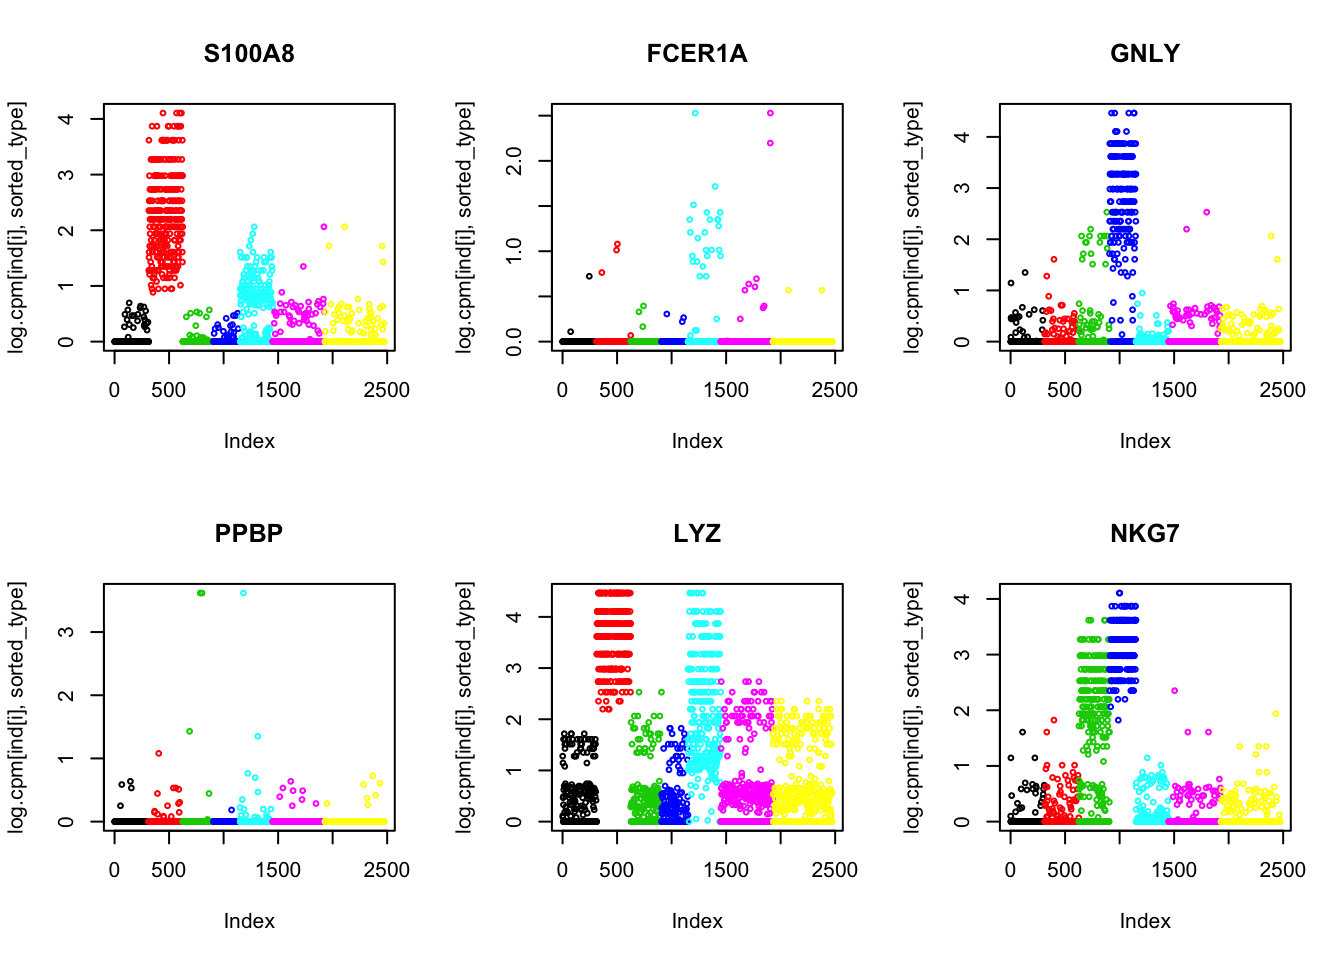
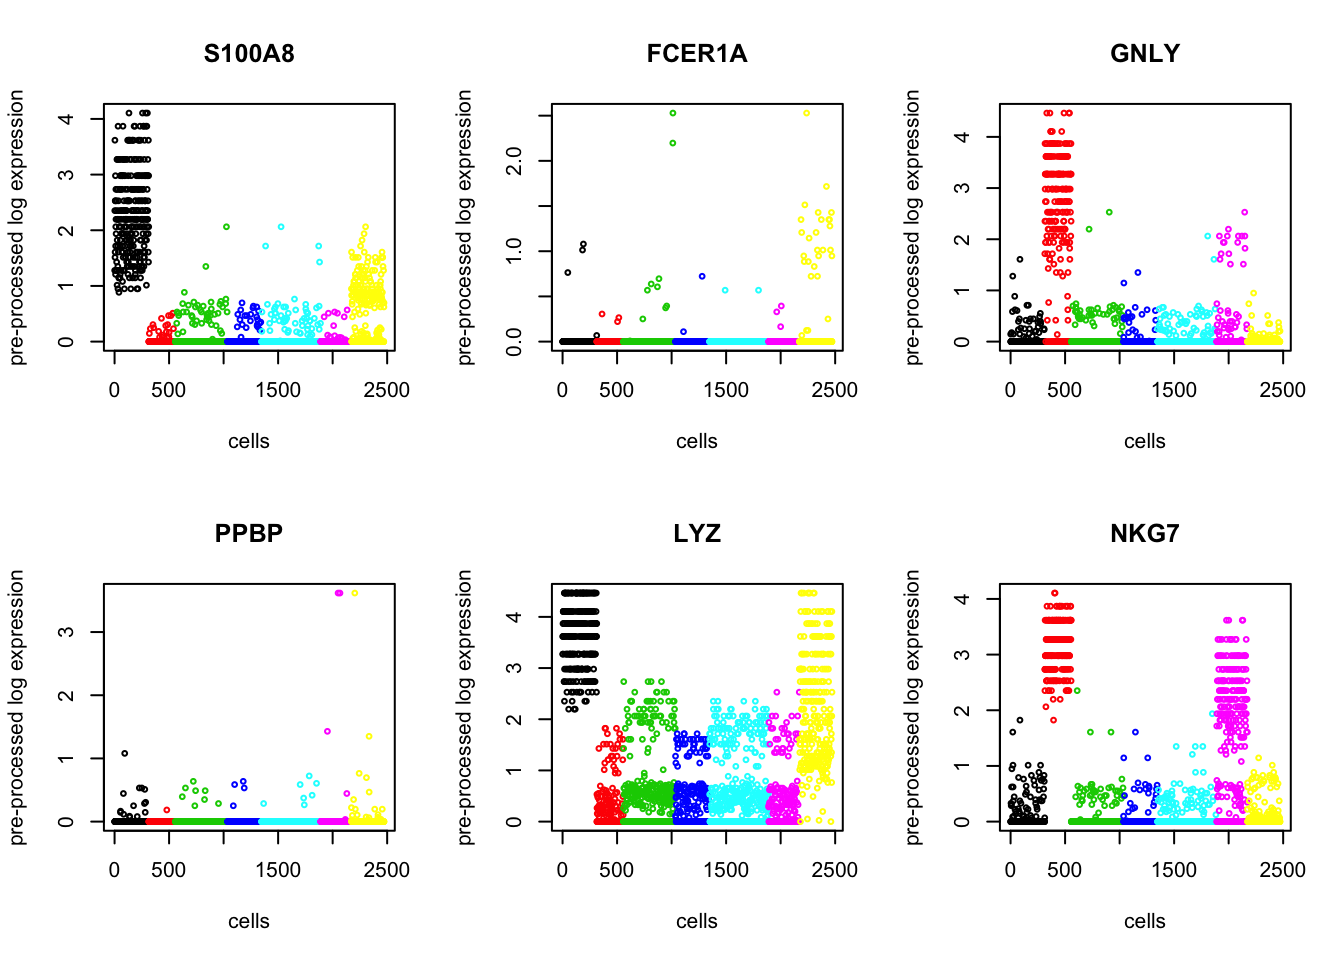
Build site.

diff --git a/docs/example_10x.html b/docs/example_10x.html
@@ -354,7 +354,7 @@ div.section {
 </div>
 
 
-<p><strong>Last updated:</strong> 2018-08-30</p>
+<p><strong>Last updated:</strong> 2018-08-31</p>
 <strong>workflowr checks:</strong> <small>(Click a bullet for more information)</small>
 <ul>
 <li>
@@ -378,7 +378,7 @@ div.section {
 </details>
 </li>
 <li>
-<p><details> <summary> <strong style="color:blue;">✔</strong> <strong>Repository version:</strong> <a href="https://github.com/tk382/SCNoisyClustering/tree/fc23dfa8829b925d8ce3bad7fa5fb58a54e39fb4" target="_blank">fc23dfa</a> </summary></p>
+<p><details> <summary> <strong style="color:blue;">✔</strong> <strong>Repository version:</strong> <a href="https://github.com/tk382/SCNoisyClustering/tree/732a07715be8d38ebd2dba8701b1f159ca8ff6ba" target="_blank">732a077</a> </summary></p>
 Great! You are using Git for version control. Tracking code development and connecting the code version to the results is critical for reproducibility. The version displayed above was the version of the Git repository at the time these results were generated. <br><br> Note that you need to be careful to ensure that all relevant files for the analysis have been committed to Git prior to generating the results (you can use <code>wflow_publish</code> or <code>wflow_git_commit</code>). workflowr only checks the R Markdown file, but you know if there are other scripts or data files that it depends on. Below is the status of the Git repository when the results were generated:
 <pre><code>
 Ignored files:
@@ -386,6 +386,7 @@ Ignored files:
     Ignored:    .Rproj.user/
     Ignored:    R/.Rhistory
     Ignored:    analysis/.Rhistory
+    Ignored:    analysis/figure/
     Ignored:    analysis/pipeline/.Rhistory
 
 Untracked files:
@@ -445,6 +446,8 @@ Untracked files:
 Unstaged changes:
     Modified:   NAMESPACE
     Modified:   R/RcppExports.R
+    Modified:   R/SLSL.R
+    Modified:   analysis/example_dropseq.Rmd
     Modified:   analysis/pipeline/.DS_Store
     Modified:   analysis/writeup/.DS_Store
     Modified:   data/.DS_Store
@@ -476,6 +479,40 @@ Message
 </tr>
 </thead>
 <tbody>
+<tr>
+<td style="text-align:left;">
+Rmd
+</td>
+<td style="text-align:left;">
+<a href="https://github.com/tk382/SCNoisyClustering/blob/732a07715be8d38ebd2dba8701b1f159ca8ff6ba/analysis/example_10x.Rmd" target="_blank">732a077</a>
+</td>
+<td style="text-align:left;">
+tk382
+</td>
+<td style="text-align:left;">
+2018-08-31
+</td>
+<td style="text-align:left;">
+wflow_publish(“analysis/example_10x.Rmd”)
+</td>
+</tr>
+<tr>
+<td style="text-align:left;">
+html
+</td>
+<td style="text-align:left;">
+<a href="https://cdn.rawgit.com/tk382/SCNoisyClustering/5cd6432f42f4baa2b1db8ba6297781da8b4b576b/docs/example_10x.html" target="_blank">5cd6432</a>
+</td>
+<td style="text-align:left;">
+tk382
+</td>
+<td style="text-align:left;">
+2018-08-30
+</td>
+<td style="text-align:left;">
+Build site.
+</td>
+</tr>
 <tr>
 <td style="text-align:left;">
 Rmd
@@ -661,7 +698,7 @@ tk382
 <h2>Gene Filtering</h2>
 <p>Next find variable genes using normalized dispersion. First, remove the genes where counts are 0 in all the cells, so that we use genes with at least one UMI count detected in at least one cell are used. Then genes are placed into a number of bins (user’s choice in “bins” parameter in “dispersion” function, default is 20) based on their mean expression, and normalized dispersion is calculated as the absolute difference between dispersion and median dispersion of the expression mean, normalized by the median absolute deviation within each bin. (Grace Zheng et al., 2017)</p>
 <div class="sourceCode"><pre class="sourceCode r"><code class="sourceCode r">X =<span class="st"> </span>tmpX[Matrix<span class="op">::</span><span class="kw">rowSums</span>(tmpX) <span class="op">&gt;</span><span class="st"> </span><span class="dv">0</span>, ]
-genenames =<span class="st"> </span>orig_genenames[Matrix<span class="op">::</span><span class="kw">rowSums</span>(tmpX) <span class="op">&gt;</span><span class="st"> </span><span class="dv">0</span>, ]
+genenames =<span class="st"> </span>orig_genenames[Matrix<span class="op">::</span><span class="kw">rowSums</span>(tmpX) <span class="op">&gt;</span><span class="st"> </span><span class="dv">0</span>, <span class="dv">2</span>]
 disp =<span class="st"> </span><span class="kw">dispersion</span>(X, <span class="dt">bins =</span> <span class="dv">20</span>)
 <span class="kw">plot</span>(disp<span class="op">$</span>z <span class="op">~</span><span class="st"> </span>disp<span class="op">$</span>genemeans,
      <span class="dt">xlab =</span> <span class="st">&quot;mean expression&quot;</span>,
@@ -699,7 +736,7 @@ tk382
 <p></details></p>
 <div class="sourceCode"><pre class="sourceCode r"><code class="sourceCode r">select =<span class="st"> </span><span class="kw">which</span>(<span class="kw">abs</span>(disp<span class="op">$</span>z) <span class="op">&gt;</span><span class="st"> </span><span class="dv">1</span>)
 X =<span class="st"> </span>X[select, ]
-genenames =<span class="st"> </span>genenames[select,]</code></pre></div>
+genenames =<span class="st"> </span>genenames[select]</code></pre></div>
 </div>
 <div id="umi-normalization" class="section level2">
 <h2>UMI Normalization</h2>
@@ -799,13 +836,14 @@ tk382
 </div>
 <div id="run-slsl" class="section level2">
 <h2>Run SLSL</h2>
-<div class="sourceCode"><pre class="sourceCode r"><code class="sourceCode r">out =<span class="st"> </span><span class="kw">SLSL</span>(log.cpm, <span class="dt">log=</span><span class="ot">FALSE</span>,
-           <span class="dt">filter =</span> <span class="ot">FALSE</span>,
-           <span class="dt">correct_detection_rate =</span> <span class="ot">FALSE</span>,
-           <span class="dt">klist =</span> <span class="kw">c</span>(<span class="dv">200</span>,<span class="dv">250</span>,<span class="dv">300</span>),
-           <span class="dt">sigmalist =</span> <span class="kw">c</span>(<span class="dv">1</span>,<span class="fl">1.5</span>,<span class="dv">2</span>),
-           <span class="dt">kernel_type =</span> <span class="st">&quot;pearson&quot;</span>,
-           <span class="dt">verbose=</span><span class="ot">FALSE</span>)
+<div class="sourceCode"><pre class="sourceCode r"><code class="sourceCode r"><span class="co"># out = SLSL(log.cpm, log=FALSE,</span>
+<span class="co">#            filter = FALSE,</span>
+<span class="co">#            correct_detection_rate = FALSE,</span>
+<span class="co">#            klist = c(200,250,300),</span>
+<span class="co">#            sigmalist = c(1,1.5,2),</span>
+<span class="co">#            kernel_type = &quot;pearson&quot;,</span>
+<span class="co">#            verbose=FALSE)</span>
+<span class="kw">load</span>(<span class="st">&#39;analysis/slsl_10x.Rdata&#39;</span>)
 tab =<span class="st"> </span><span class="kw">table</span>(out<span class="op">$</span>result)
 <span class="kw">plot</span>(tsne.base<span class="op">$</span>Y, <span class="dt">col=</span><span class="kw">rainbow</span>(<span class="dv">7</span>)[out<span class="op">$</span>result],
      <span class="dt">xlab =</span> <span class="st">&#39;tsne1&#39;</span>, <span class="dt">ylab=</span><span class="st">&#39;tsne2&#39;</span>, <span class="dt">main=</span><span class="st">&quot;SLSL result&quot;</span>, <span class="dt">cex =</span> <span class="fl">0.5</span>)</code></pre></div>
@@ -826,6 +864,17 @@ Date
 </tr>
 </thead>
 <tbody>
+<tr>
+<td style="text-align:left;">
+<a href="https://github.com/tk382/SCNoisyClustering/blob/5cd6432f42f4baa2b1db8ba6297781da8b4b576b/docs/figure/example_10x.Rmd/slsl-1.png" target="_blank">5cd6432</a>
+</td>
+<td style="text-align:left;">
+tk382
+</td>
+<td style="text-align:left;">
+2018-08-30
+</td>
+</tr>
 <tr>
 <td style="text-align:left;">
 <a href="https://github.com/tk382/SCNoisyClustering/blob/3018a28878ebd648ea724838f2234a0fee4d132a/docs/figure/example_10x.Rmd/slsl-1.png" target="_blank">3018a28</a>
@@ -887,6 +936,17 @@ Date
 <tbody>
 <tr>
 <td style="text-align:left;">
+<a href="https://github.com/tk382/SCNoisyClustering/blob/5cd6432f42f4baa2b1db8ba6297781da8b4b576b/docs/figure/example_10x.Rmd/slsl-2.png" target="_blank">5cd6432</a>
+</td>
+<td style="text-align:left;">
+tk382
+</td>
+<td style="text-align:left;">
+2018-08-30
+</td>
+</tr>
+<tr>
+<td style="text-align:left;">
 <a href="https://github.com/tk382/SCNoisyClustering/blob/3018a28878ebd648ea724838f2234a0fee4d132a/docs/figure/example_10x.Rmd/slsl-2.png" target="_blank">3018a28</a>
 </td>
 <td style="text-align:left;">
@@ -919,12 +979,10 @@ tk382
 <div class="sourceCode"><pre class="sourceCode r"><code class="sourceCode r">sorted_type =<span class="st"> </span><span class="kw">sort</span>(out<span class="op">$</span>result, <span class="dt">index.return=</span><span class="ot">TRUE</span>)<span class="op">$</span>ix
 
 <span class="co">#list comes from 10X paper and Seurat</span>
-ind =<span class="st"> </span><span class="kw">which</span>(genenames<span class="op">$</span>V2 <span class="op">%in%</span><span class="st"> </span><span class="kw">c</span>(<span class="st">&#39;CD3D&#39;</span>, <span class="st">&#39;CD8A&#39;</span>, <span class="st">&#39;NKG7&#39;</span>, <span class="st">&#39;FCER1A&#39;</span>, <span class="st">&#39;CD16&#39;</span>, <span class="st">&#39;S100A8&#39;</span>,
+ind =<span class="st"> </span><span class="kw">which</span>(genenames <span class="op">%in%</span><span class="st"> </span><span class="kw">c</span>(<span class="st">&#39;CD3D&#39;</span>, <span class="st">&#39;CD8A&#39;</span>, <span class="st">&#39;NKG7&#39;</span>, <span class="st">&#39;FCER1A&#39;</span>, <span class="st">&#39;CD16&#39;</span>, <span class="st">&#39;S100A8&#39;</span>,
                                      <span class="st">&#39;MS4A1&#39;</span>, <span class="st">&#39;GNLY&#39;</span>, <span class="st">&#39;CD3E&#39;</span>, <span class="st">&#39;CD14&#39;</span>, <span class="st">&#39;FCGR3A&#39;</span>,
                                      <span class="st">&#39;LYZ&#39;</span>,<span class="st">&#39;PPBP&#39;</span>))
-genenames<span class="op">$</span>V2[ind]</code></pre></div>
-<pre><code>[1] &quot;S100A8&quot; &quot;FCER1A&quot; &quot;GNLY&quot;   &quot;PPBP&quot;   &quot;LYZ&quot;    &quot;NKG7&quot;  </code></pre>
-<div class="sourceCode"><pre class="sourceCode r"><code class="sourceCode r">df =<span class="st"> </span><span class="kw">data.frame</span>(<span class="dt">tsne1 =</span> tsne.base<span class="op">$</span>Y[,<span class="dv">1</span>], <span class="dt">tsne2 =</span> tsne.base<span class="op">$</span>Y[,<span class="dv">2</span>],
+df =<span class="st"> </span><span class="kw">data.frame</span>(<span class="dt">tsne1 =</span> tsne.base<span class="op">$</span>Y[,<span class="dv">1</span>], <span class="dt">tsne2 =</span> tsne.base<span class="op">$</span>Y[,<span class="dv">2</span>],
                 <span class="dt">S100A8 =</span> log.cpm[ind[<span class="dv">1</span>], ],
                 <span class="dt">FCER1A =</span> log.cpm[ind[<span class="dv">2</span>], ],
                 <span class="dt">GNLY =</span> log.cpm[ind[<span class="dv">3</span>], ],
@@ -935,7 +993,8 @@ genenames<span class="op">$</span>V2[ind]</code></pre></div>
 <span class="kw">par</span>(<span class="dt">mfrow =</span> <span class="kw">c</span>(<span class="dv">2</span>,<span class="dv">3</span>))
 <span class="cf">for</span> (i <span class="cf">in</span> <span class="dv">1</span><span class="op">:</span><span class="dv">6</span>){
   <span class="kw">plot</span>(log.cpm[ind[i], sorted_type], <span class="dt">col =</span> <span class="kw">as.factor</span>(out<span class="op">$</span>result[sorted_type]),
-       <span class="dt">main =</span> genenames<span class="op">$</span>V2[ind[i]], <span class="dt">cex=</span><span class="fl">0.5</span>)
+       <span class="dt">main =</span> genenames[ind[i]], <span class="dt">cex=</span><span class="fl">0.5</span>,
+       <span class="dt">xlab =</span> <span class="st">&#39;cells&#39;</span>, <span class="dt">ylab =</span> <span class="st">&#39;pre-processed log expression&#39;</span>)
 }</code></pre></div>
 <p><img src="figure/example_10x.Rmd/biomarkers-1.png" width="672" style="display: block; margin: auto;" /></p>
 <details> <summary><em>Expand here to see past versions of biomarkers-1.png:</em></summary>
@@ -954,6 +1013,17 @@ Date
 </tr>
 </thead>
 <tbody>
+<tr>
+<td style="text-align:left;">
+<a href="https://github.com/tk382/SCNoisyClustering/blob/5cd6432f42f4baa2b1db8ba6297781da8b4b576b/docs/figure/example_10x.Rmd/biomarkers-1.png" target="_blank">5cd6432</a>
+</td>
+<td style="text-align:left;">
+tk382
+</td>
+<td style="text-align:left;">
+2018-08-30
+</td>
+</tr>
 <tr>
 <td style="text-align:left;">
 <a href="https://github.com/tk382/SCNoisyClustering/blob/3018a28878ebd648ea724838f2234a0fee4d132a/docs/figure/example_10x.Rmd/biomarkers-1.png" target="_blank">3018a28</a>
@@ -979,50 +1049,7 @@ tk382
 </tbody>
 </table>
 <p></details></p>
-<div class="sourceCode"><pre class="sourceCode r"><code class="sourceCode r">g1 =<span class="st"> </span><span class="kw">ggplot</span>(df, <span class="kw">aes</span>(<span class="dt">x=</span>tsne1, <span class="dt">y=</span>tsne2, <span class="dt">col =</span> S100A8)) <span class="op">+</span><span class="st"> </span><span class="kw">geom_point</span>(<span class="dt">size=</span><span class="fl">0.1</span>) <span class="op">+</span>
-<span class="st">  </span><span class="kw">scale_colour_gradient</span>(<span class="dt">low=</span><span class="st">&quot;pink&quot;</span>, <span class="dt">high=</span><span class="st">&quot;black&quot;</span>) <span class="op">+</span><span class="st"> </span><span class="kw">guides</span>(<span class="dt">color =</span> <span class="ot">FALSE</span>) <span class="op">+</span><span class="st"> </span><span class="kw">ggtitle</span>(<span class="st">&#39;S100A8&#39;</span>)
-g2 =<span class="st"> </span><span class="kw">ggplot</span>(df, <span class="kw">aes</span>(<span class="dt">x=</span>tsne1, <span class="dt">y=</span>tsne2, <span class="dt">col =</span> FCER1A)) <span class="op">+</span><span class="st"> </span><span class="kw">geom_point</span>(<span class="dt">size=</span><span class="fl">0.1</span>) <span class="op">+</span>
-<span class="st">  </span><span class="kw">scale_colour_gradient</span>(<span class="dt">low=</span><span class="st">&quot;pink&quot;</span>, <span class="dt">high=</span><span class="st">&quot;black&quot;</span>) <span class="op">+</span><span class="st"> </span><span class="kw">guides</span>(<span class="dt">color =</span> <span class="ot">FALSE</span>) <span class="op">+</span><span class="st"> </span><span class="kw">ggtitle</span>(<span class="st">&#39;FCER1A&#39;</span>)
-g3 =<span class="st"> </span><span class="kw">ggplot</span>(df, <span class="kw">aes</span>(<span class="dt">x=</span>tsne1, <span class="dt">y=</span>tsne2, <span class="dt">col =</span> GNLY)) <span class="op">+</span><span class="st"> </span><span class="kw">geom_point</span>(<span class="dt">size=</span><span class="fl">0.1</span>) <span class="op">+</span>
-<span class="st">  </span><span class="kw">scale_colour_gradient</span>(<span class="dt">low=</span><span class="st">&quot;pink&quot;</span>, <span class="dt">high=</span><span class="st">&quot;black&quot;</span>) <span class="op">+</span><span class="st"> </span><span class="kw">guides</span>(<span class="dt">color =</span> <span class="ot">FALSE</span>) <span class="op">+</span><span class="st"> </span><span class="kw">ggtitle</span>(<span class="st">&#39;GNLY&#39;</span>)
-g4 =<span class="st"> </span><span class="kw">ggplot</span>(df, <span class="kw">aes</span>(<span class="dt">x=</span>tsne1, <span class="dt">y=</span>tsne2, <span class="dt">col =</span> PPBP)) <span class="op">+</span><span class="st"> </span><span class="kw">geom_point</span>(<span class="dt">size=</span><span class="fl">0.1</span>) <span class="op">+</span>
-<span class="st">  </span><span class="kw">scale_colour_gradient</span>(<span class="dt">low=</span><span class="st">&quot;pink&quot;</span>, <span class="dt">high=</span><span class="st">&quot;black&quot;</span>) <span class="op">+</span><span class="st"> </span><span class="kw">guides</span>(<span class="dt">color =</span> <span class="ot">FALSE</span>) <span class="op">+</span><span class="st"> </span><span class="kw">ggtitle</span>(<span class="st">&#39;PPBP&#39;</span>)
-g5 =<span class="st"> </span><span class="kw">ggplot</span>(df, <span class="kw">aes</span>(<span class="dt">x=</span>tsne1, <span class="dt">y=</span>tsne2, <span class="dt">col =</span> LYZ)) <span class="op">+</span><span class="st"> </span><span class="kw">geom_point</span>(<span class="dt">size=</span><span class="fl">0.1</span>) <span class="op">+</span><span class="st"> </span><span class="kw">scale_colour_gradient</span>(<span class="dt">low=</span><span class="st">&quot;pink&quot;</span>, <span class="dt">high=</span><span class="st">&quot;black&quot;</span>) <span class="op">+</span><span class="st"> </span><span class="kw">guides</span>(<span class="dt">color =</span> <span class="ot">FALSE</span>) <span class="op">+</span><span class="st"> </span><span class="kw">ggtitle</span>(<span class="st">&#39;LYZ&#39;</span>)
-g6 =<span class="st"> </span><span class="kw">ggplot</span>(df, <span class="kw">aes</span>(<span class="dt">x=</span>tsne1, <span class="dt">y=</span>tsne2, <span class="dt">col =</span> NKG7)) <span class="op">+</span><span class="st"> </span><span class="kw">geom_point</span>(<span class="dt">size=</span><span class="fl">0.1</span>) <span class="op">+</span><span class="st"> </span><span class="kw">scale_colour_gradient</span>(<span class="dt">low=</span><span class="st">&quot;pink&quot;</span>, <span class="dt">high=</span><span class="st">&quot;black&quot;</span>) <span class="op">+</span><span class="st"> </span><span class="kw">guides</span>(<span class="dt">color =</span> <span class="ot">FALSE</span>) <span class="op">+</span><span class="st"> </span><span class="kw">ggtitle</span>(<span class="st">&#39;NKG7&#39;</span>)
-
-<span class="kw">grid.arrange</span>(g1,g2,g3,g4,
-             g5,g6, <span class="dt">nrow=</span><span class="dv">2</span>)</code></pre></div>
-<p><img src="figure/example_10x.Rmd/biomarkers-2.png" width="672" style="display: block; margin: auto;" /></p>
-<details> <summary><em>Expand here to see past versions of biomarkers-2.png:</em></summary>
-<table style="border-collapse:separate; border-spacing:5px;">
-<thead>
-<tr>
-<th style="text-align:left;">
-Version
-</th>
-<th style="text-align:left;">
-Author
-</th>
-<th style="text-align:left;">
-Date
-</th>
-</tr>
-</thead>
-<tbody>
-<tr>
-<td style="text-align:left;">
-<a href="https://github.com/tk382/SCNoisyClustering/blob/3018a28878ebd648ea724838f2234a0fee4d132a/docs/figure/example_10x.Rmd/biomarkers-2.png" target="_blank">3018a28</a>
-</td>
-<td style="text-align:left;">
-tk382
-</td>
-<td style="text-align:left;">
-2018-08-30
-</td>
-</tr>
-</tbody>
-</table>
-<p></details></p>
+<p><img src="figure/example_10x.Rmd/ggplots1-1.png" width="672" style="display: block; margin: auto;" /></p>
 </div>
 <div id="differentially-expressed-genes" class="section level2">
 <h2>Differentially Expressed Genes</h2>
@@ -1031,12 +1058,14 @@ tk382
   p[i] =<span class="st"> </span><span class="kw">kruskal.test</span>(log.cpm[i,], <span class="kw">as.factor</span>(out<span class="op">$</span>result))<span class="op">$</span>p.value
 }
 sorted_p =<span class="st"> </span><span class="kw">sort</span>(<span class="op">-</span><span class="kw">log10</span>(p), <span class="dt">index.return=</span><span class="ot">TRUE</span>, <span class="dt">decreasing =</span> <span class="ot">TRUE</span>)
-
 sorted_type =<span class="st"> </span><span class="kw">sort</span>(out<span class="op">$</span>result, <span class="dt">index.return=</span><span class="ot">TRUE</span>)<span class="op">$</span>ix
+
 <span class="kw">par</span>(<span class="dt">mfrow =</span> <span class="kw">c</span>(<span class="dv">2</span>,<span class="dv">3</span>))
 <span class="cf">for</span> (i <span class="cf">in</span> <span class="dv">1</span><span class="op">:</span><span class="dv">6</span>){
-  <span class="kw">plot</span>(log.cpm[sorted_p<span class="op">$</span>ix[i], sorted_type], <span class="dt">col =</span> <span class="kw">as.factor</span>(out<span class="op">$</span>result[sorted_type]),
-       <span class="dt">main =</span> genenames[sorted_p<span class="op">$</span>ix[i], <span class="dv">2</span>], <span class="dt">cex=</span><span class="fl">0.5</span>)
+  <span class="kw">plot</span>(log.cpm[sorted_p<span class="op">$</span>ix[i], sorted_type], 
+       <span class="dt">col =</span> <span class="kw">rainbow</span>(<span class="kw">length</span>(tab))[<span class="kw">as.factor</span>(out<span class="op">$</span>result[sorted_type])],
+       <span class="dt">main =</span> genenames[sorted_p<span class="op">$</span>ix[i]], <span class="dt">cex=</span><span class="fl">0.5</span>,
+       <span class="dt">ylab =</span> <span class="st">&quot;pre-processed log expression&quot;</span>, <span class="dt">xlab =</span> <span class="st">&quot;cells&quot;</span>)
 }</code></pre></div>
 <p><img src="figure/example_10x.Rmd/find_markers-1.png" width="672" style="display: block; margin: auto;" /></p>
 <details> <summary><em>Expand here to see past versions of find_markers-1.png:</em></summary>
@@ -1057,6 +1086,17 @@ Date
 <tbody>
 <tr>
 <td style="text-align:left;">
+<a href="https://github.com/tk382/SCNoisyClustering/blob/5cd6432f42f4baa2b1db8ba6297781da8b4b576b/docs/figure/example_10x.Rmd/find_markers-1.png" target="_blank">5cd6432</a>
+</td>
+<td style="text-align:left;">
+tk382
+</td>
+<td style="text-align:left;">
+2018-08-30
+</td>
+</tr>
+<tr>
+<td style="text-align:left;">
 <a href="https://github.com/tk382/SCNoisyClustering/blob/3018a28878ebd648ea724838f2234a0fee4d132a/docs/figure/example_10x.Rmd/find_markers-1.png" target="_blank">3018a28</a>
 </td>
 <td style="text-align:left;">
@@ -1069,6 +1109,7 @@ tk382
 </tbody>
 </table>
 <p></details></p>
+<p><img src="figure/example_10x.Rmd/ggplots2-1.png" width="672" style="display: block; margin: auto;" /></p>
 </div>
 <div id="session-information" class="section level2">
 <h2>Session information</h2>
